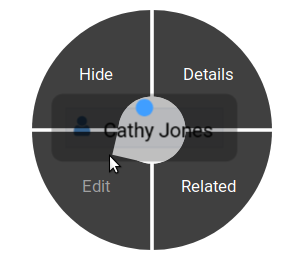
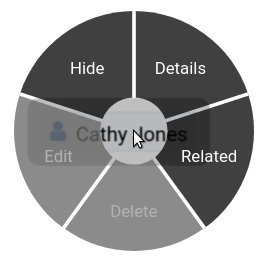
Updates to the user guide, GUI part

diff --git a/docs/user.rst b/docs/user.rst
@@ -28,7 +28,8 @@ The Workspace Selector
 
 The *Workspace Selector* is part of the upper toolbar and lets you select your current workspace.
 **Workspaces are the highest level of content organization in DMX.**
-You can think of a workspace as a context in which you organize your work while you can associate items across different workspaces.
+You can think of a workspace as a context in which you organize your work.
+Items can be connected across different workspaces.
 
 Everything you create is automatically assigned to the workspace selected in this menu.
 **Every item in DMX is assigned to exactly one workspace.**
@@ -67,7 +68,8 @@ It shows a situation-based view of selected content from the database.
 .. hint:: Go to our `Demo Server <https://demo.dmx.systems/>`_, navigate through the workspaces and have a look at the different topicmaps. They all show specific views on parts of the same underlying database.
 
 
-For the moment, two types of topicmaps are supported: *Topicmaps* and *Geomaps*.
+For the moment, three types of topicmaps are supported: *Topicmaps*, *Geomaps* and *Tableviews*.
+Geomaps and tableviews both are :ref:`plugins <admin-plugin-installation>` that have to be installed separately.
 
 A new topicmap is always empty.
 In the beginning, there is only one topicmap, it's called "untitled".
@@ -76,7 +78,7 @@ The layout of the topicmap is persisted over working sessions.
 Edits to a topicmap are instantly mirrored to other connected users.
 The size of a topicmap can be well beyond the size of your screen. You can move it with your mouse.
 
-Find out more about working with topicmaps and geomaps in the section on :ref:`Organizing the working context<user-organizing-the-working-context>`.
+Find out more about working with topicmaps, geomaps and tableviews in the section on :ref:`Organizing the working context<user-organizing-the-working-context>`.
 
 .. _user-the-fit-button:
 
@@ -86,7 +88,7 @@ The Fit Button
 .. figure:: _static/upper-toolbar-fit-button.png
     :alt: Tool bar with highlighted fit button
 
-This button makes a topicmap fit into your current browser window.
+The fit button makes a topicmap fit into your current browser window.
 It adjusts the zoom level of a topicmap.
 
 You can find the fit button next to "i" button of the Topicmap Selector.
@@ -142,12 +144,13 @@ The Context Menu
 
 The context menu is part of the topicmap panel and thus available for any item on a map.
 It is usually opened with a right-click on a topic or association.
-By default, it gives you four commands to execute on the selected item:
+It gives you five commands to execute on the selected item:
 
 * You can display an item's details.
 * You can edit the item.
 * You can hide the item from this topicmap.
 * You can navigate to related items.
+* You can delete the item.
 
 To close the context menu *without* any action, release your mouse in the center of the circle.
 
@@ -155,7 +158,7 @@ To close the context menu *without* any action, release your mouse in the center
     :width: 250
 
 The context menu indicates whether you have write permission for an item or not.
-If the term "Edit" is grayed out, you do not have write permission on the selected item.
+If the terms "Edit" and "Delete" are grayed out, you do not have write permission on the selected item.
 
 .. image:: _static/context-menu-no-permission.png
     :width: 250
